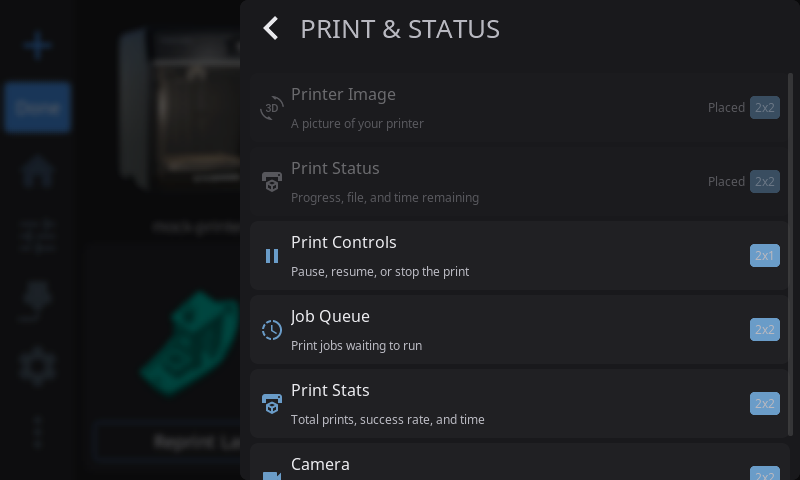
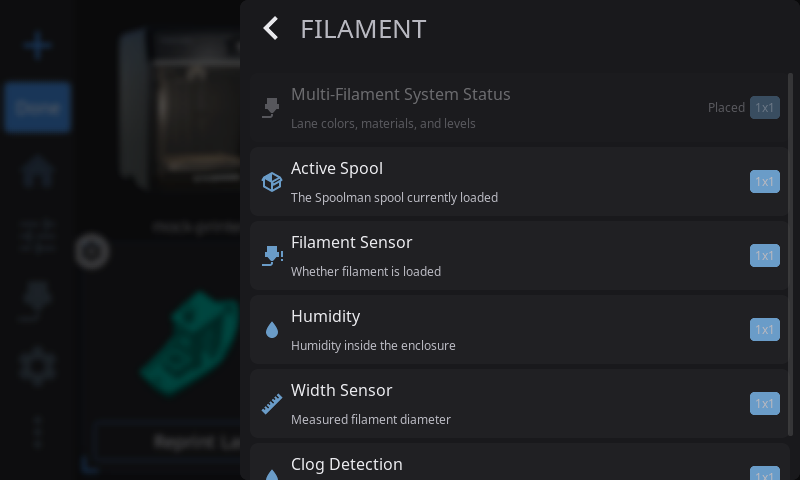
fix(widget-catalog): wrap long row names instead of running them through the badge
The text column was sized to its content and given flex_grow at the same time,
and neither label carried a width or a long mode, so a name wider than the row
just kept going - straight through the size badge and the "Placed" label on a
480px panel. Gated widgets are the real case: the reason is appended to the name,
so "Humidity (No humidity sensor detected)" is half again as long as the longest
plain widget name. Wrapping rather than ellipsizing, because the clipped half is
the part that says why the row is greyed out.

Also regenerates the catalog screenshot for the five-category layout and adds one
for a category sub-page, and corrects the FAQ's widget answer: there is no
ten-widget cap, gated widgets are dimmed rather than hidden, and "probe" is not a
widget that exists.

diff --git a/src/ui/ui_widget_catalog_overlay.cpp b/src/ui/ui_widget_catalog_overlay.cpp
@@ -220,8 +220,13 @@ lv_obj_t* WidgetCatalogOverlay::create_row(lv_obj_t* parent, const char* name, c
     }
 
     // Left side: name + description column
+    // Width comes from flex_grow, not from the content: the name can be much
+    // wider than the row. A gated widget carries its reason in the name
+    // ("Humidity (No humidity sensor detected)"), which is longer than any
+    // widget name, and sizing to content ran that straight through the size
+    // badge and the "Placed" label on a 480px panel.
     lv_obj_t* text_col = lv_obj_create(row);
-    lv_obj_set_width(text_col, LV_SIZE_CONTENT);
+    lv_obj_set_width(text_col, 0);
     lv_obj_set_height(text_col, LV_SIZE_CONTENT);
     lv_obj_set_style_pad_all(text_col, 0, 0);
     lv_obj_set_style_bg_opa(text_col, LV_OPA_TRANSP, 0);
@@ -232,14 +237,20 @@ lv_obj_t* WidgetCatalogOverlay::create_row(lv_obj_t* parent, const char* name, c
     lv_obj_remove_flag(text_col, LV_OBJ_FLAG_CLICKABLE);
     lv_obj_remove_flag(text_col, LV_OBJ_FLAG_SCROLLABLE);
 
+    // Wrap rather than ellipsize. The gate reason lives at the end of the name,
+    // so clipping it is exactly the half that explains why the row is greyed out.
     lv_obj_t* name_label = lv_label_create(text_col);
     lv_label_set_text(name_label, name);
+    lv_obj_set_width(name_label, LV_PCT(100));
+    lv_label_set_long_mode(name_label, LV_LABEL_LONG_WRAP);
     lv_obj_set_style_text_font(name_label, &noto_sans_16, 0);
     lv_obj_set_style_text_color(name_label, theme_manager_get_color("text"), 0);
 
     if (description && description[0] != '\0') {
         lv_obj_t* desc_label = lv_label_create(text_col);
         lv_label_set_text(desc_label, description);
+        lv_obj_set_width(desc_label, LV_PCT(100));
+        lv_label_set_long_mode(desc_label, LV_LABEL_LONG_WRAP);
         lv_obj_set_style_text_font(desc_label, &noto_sans_12, 0);
         lv_obj_set_style_text_color(desc_label, theme_manager_get_color("text_muted"), 0);
     }

diff --git a/docs/user/FAQ.md b/docs/user/FAQ.md
@@ -283,7 +283,7 @@ To customize:
 4. Select a widget and tap the **trash icon** to remove it, or the **gear icon** to configure it
 5. Tap **Done** when you are finished
 
-How many widgets fit depends on your screen — the grid is sized from it. Some widgets only appear if the relevant hardware is detected. See the [Home Panel guide](guide/home-panel.md#available-widgets) for the full widget list.
+How many widgets fit depends on your screen - the grid is sized from it, so a bigger screen gives you more cells rather than bigger ones. Widgets that need hardware you don't have still show up in the Widget Catalog, but they are dimmed, can't be tapped, and carry the reason in parentheses - for example "Humidity (No humidity sensor detected)" or "Chamber Temperature (No chamber temperature sensor detected)". They become available on their own once the hardware is detected. See the [Home Panel guide](guide/home-panel.md#available-widgets) for the full widget list.
 
 ### Can I customize the colors or layout?
 

diff --git a/docs/user/guide/home-panel.md b/docs/user/guide/home-panel.md
@@ -169,8 +169,9 @@ Tap any available widget to add it. HelixScreen places it near where you long-pr
 
 The **Reset** button in the catalog header resets your whole dashboard — see [Resetting to Defaults](#resetting-to-defaults).
 
-![Widget Catalog — the five category rows, each with its widget count](../../images/user/home-widget-catalog.png)
-![Inside a category — widget rows with size badges and dimmed "Placed" entries](../../images/user/home-widget-catalog-category.png)
+![Widget Catalog - the five category rows, each with its widget count](../../images/user/home-widget-catalog.png)
+
+![Inside a category - widget rows with size badges and dimmed "Placed" entries](../../images/user/home-widget-catalog-category.png)
 
 ### Removing a Widget
 
